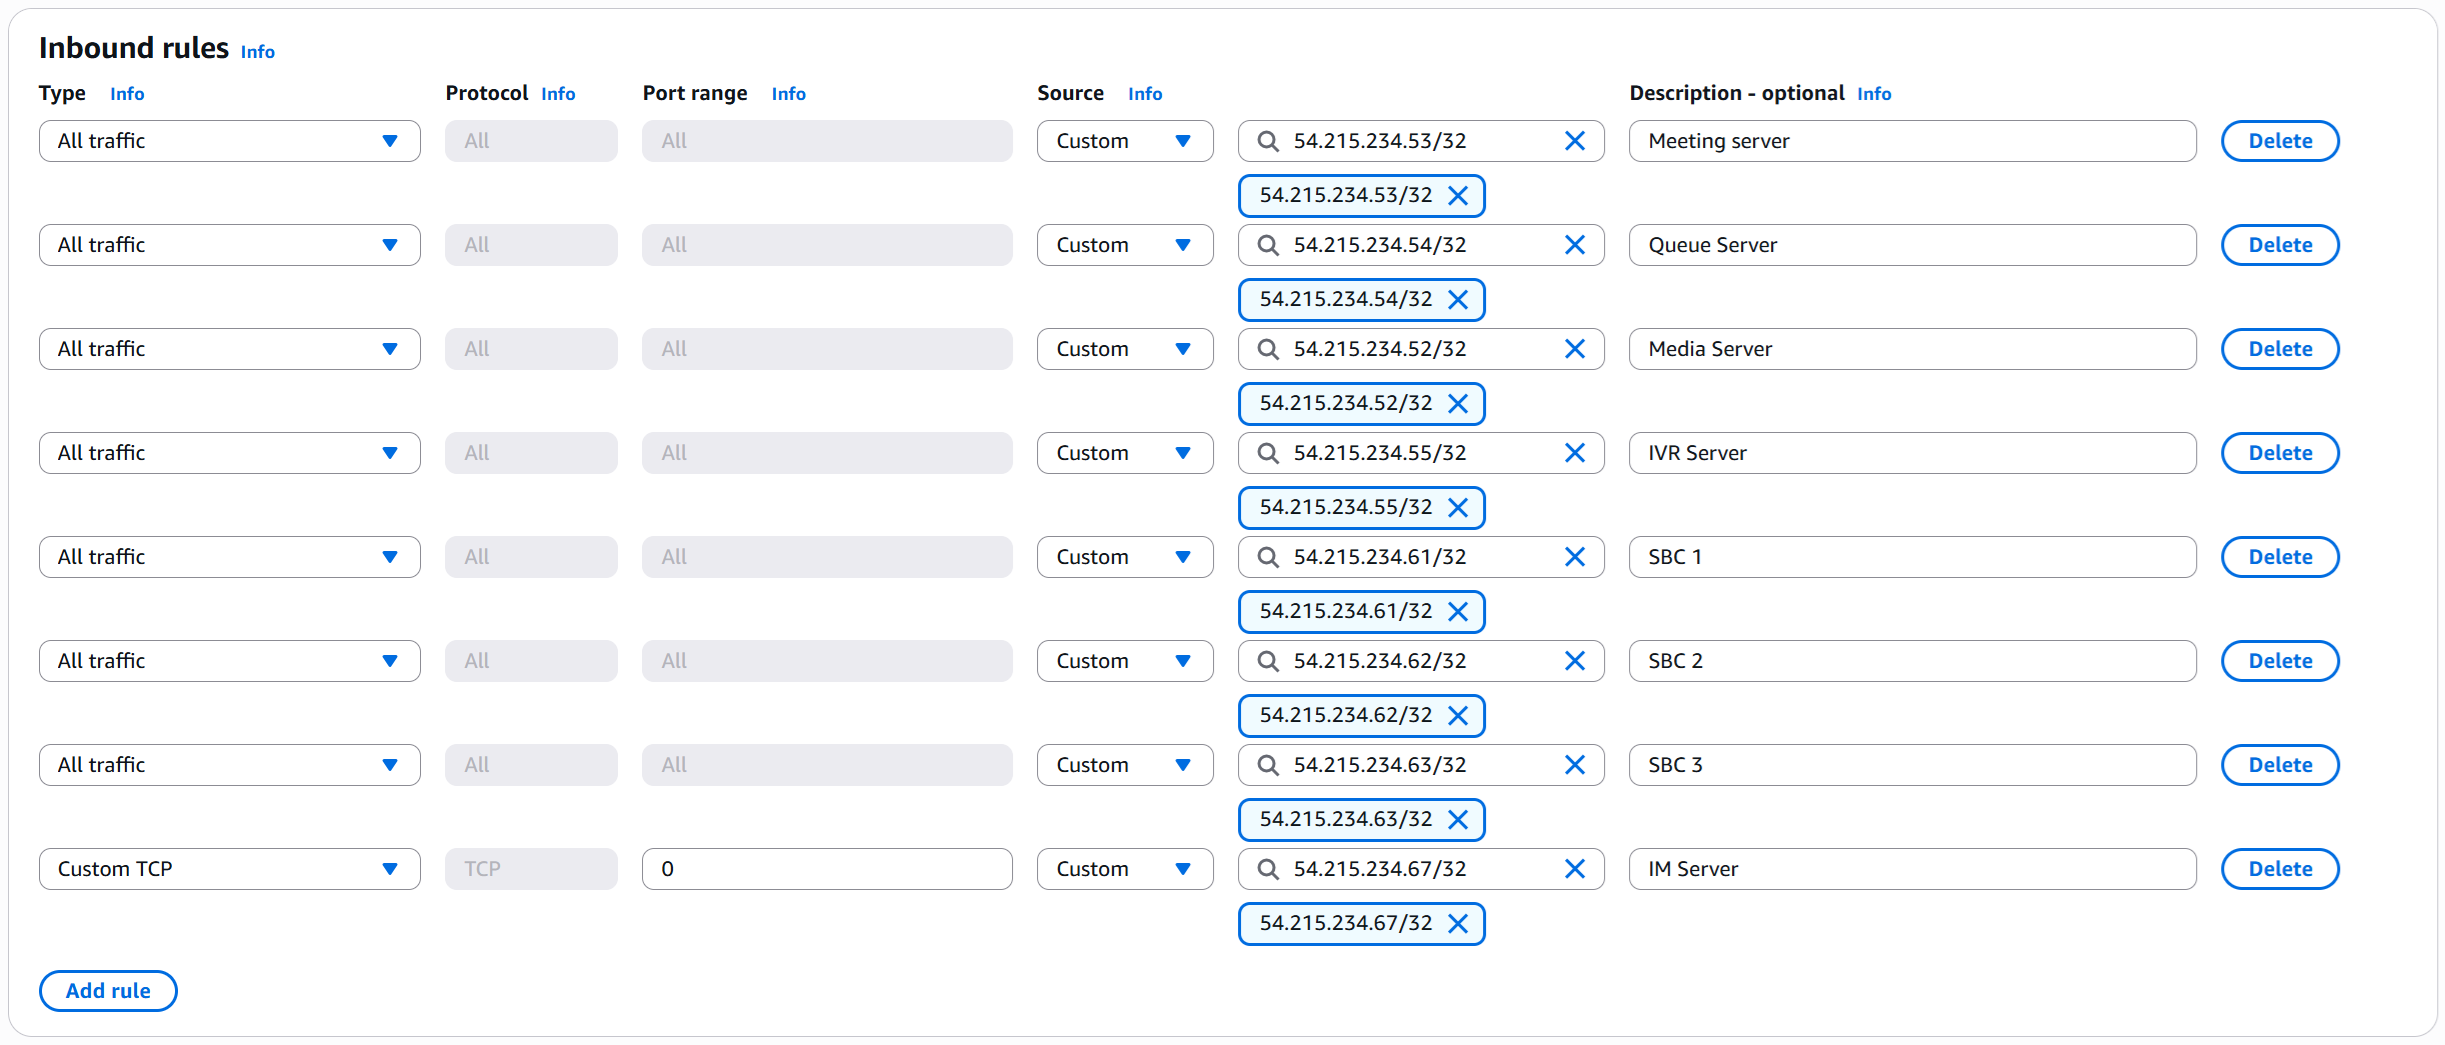
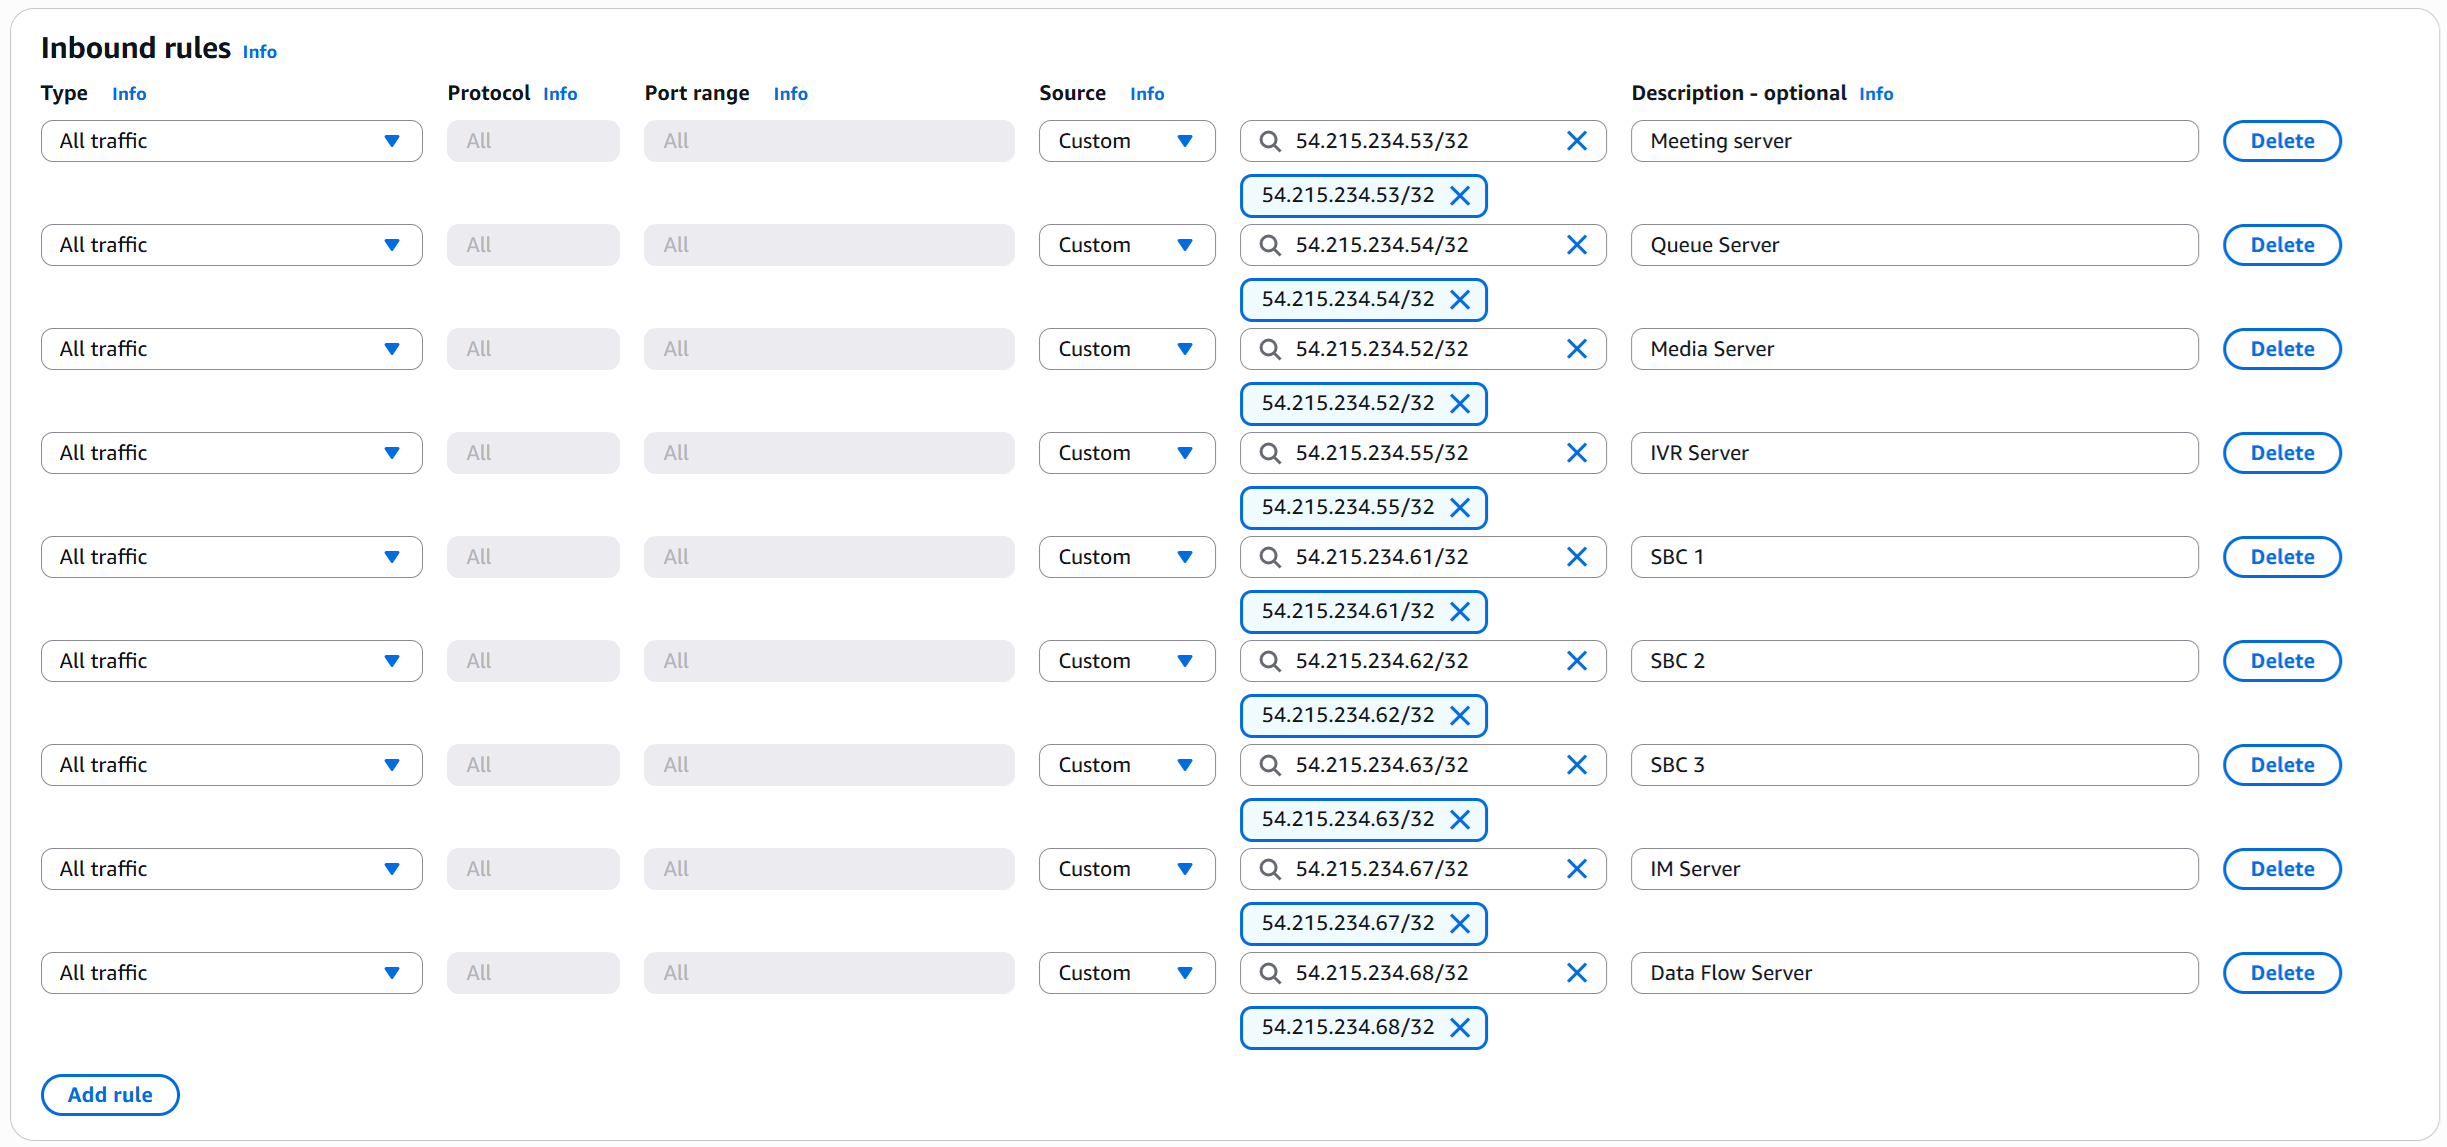
GitBook: No commit message

diff --git a/portsip-communications-solution/high-availability-v22.x/high-availability-and-scalability-on-aws/scaling-data-flow-server-on-aws-for-high-availability.md b/portsip-communications-solution/high-availability-v22.x/high-availability-and-scalability-on-aws/scaling-data-flow-server-on-aws-for-high-availability.md
@@ -2,7 +2,7 @@
 
 With a PortSIP PBX High Availability (HA) deployment, the Data Flow Service must be installed on a separate server.
 
-Before proceeding with this guide, ensure that you have successfully completed the PortSIP PBX [High Availability installation on AWS](../../../v16.x-legacy/high-availability-v16.x/high-availability-and-scalability-on-aws/high-availability-installations-on-aws.md).
+Before proceeding with this guide, ensure that you have successfully completed the PortSIP PBX [High Availability installation on AWS.](https://support.portsip.com/portsip-communications-solution/high-availability-v22.x/high-availability-and-scalability-on-aws/high-availability-installations-on-aws)
 
 ***
 
@@ -49,15 +49,6 @@ For large or high-volume environments, use the following guideline:
 
 ***
 
-#### Supported Linux Operating System
-
-To ensure compatibility and stability, all servers in the HA environment must use a consistent Linux OS.
-
-* **Supported OS:** Ubuntu 24.04 (64-bit)
-* The Data Flow server **must run the same OS version** as the PBX HA nodes.
-
-***
-
 #### User Account Requirements
 
 For seamless integration with the HA environment, the Data Flow server must meet the following user account requirements:
@@ -79,15 +70,22 @@ If your deployment handles **very large call volumes**, increase the data volume
 
 ***
 
-#### Network Requirements <a href="#network-requirements" id="network-requirements"></a>
+### Deployment Requirements
 
-**Static IP Address**
+* Each application server must be deployed on a dedicated EC2 instance. Do not install multiple application server roles on a single EC2 instance.
+* Each EC2 instance must use a **static private IP address** and an **elastic IP address**. DHCP-assigned IP addresses are not supported.
 
-You must configure a **static private IP address** for the Data Flow server.
+***
 
-* Example private IP: `192.168.1.26`
+#### Preparing Linux Servers (EC2 Instances)
 
-If a static private IP is not available, the server must have a **static public IP address** and be able to communicate reliably with the PBX server.
+Prepare the EC2 instance that will host the Data Flow server. In this example, the following Data Flow server is deployed:
+
+* Private IP: `172.31.16.158`
+* Hostname: `ip-172-31-16-158`
+* Elastic IP: `54.215.234.68`
+
+Ensure all IP addresses are reserved and consistently assigned to their respective EC2 instances.
 
 ***
 
@@ -96,7 +94,7 @@ If a static private IP is not available, the server must have a **static public 
 The following tasks **must be completed before installing the Data Flow service**:
 
 * Ensure the system date and time are correctly synchronized
-* Assign a static private IP address: Example: `192.168.1.26`
+* Assign a static private IP address: Example: `172.31.16.158`
 * Install all available system updates and service packs
 * Do not install PostgreSQL on the **Data Flow** server
 * Disable all power-saving features: Set the system to High Performance mode
@@ -112,6 +110,56 @@ These requirements ensure optimal performance and avoid conflicts with the Data 
 
 ***
 
+### Creating EC2 Instances
+
+Follow the steps below to create the EC2 instances for the Data Flow server.
+
+\
+The process is largely the same as the [PortSIP PBX High Availability (HA) deployment on AWS](high-availability-installations-on-aws.md), but please pay close attention to the specific configuration details outlined below.
+
+***
+
+#### Supported Linux Operating System
+
+PortSIP PBX High Availability (HA) and all associated servers require a consistent and compatible Linux environment.
+
+* **Supported OS**: Ubuntu 24.04 (64-bit)
+* The IM server **must run the exact same OS version** as the PBX server.
+
+#### Network Settings
+
+* Select the **same VPC and Subnet** used by the PBX HA nodes.
+* Select the **same Security Group** used by the PBX HA nodes.
+* Set **Auto-assign public IP** to **Disable**.
+* Under **Advanced network configuration → Network interface 1**:
+  * Set **Primary IP** to `172.31.16.158` for this EC2 server.
+* Associate the Elastic IP with this EC2 server. For the Elastic IP address example `54.215.234.68`
+
+#### Disk Space Recommendations
+
+* **Minimum required disk space**: 128 GB
+* No separate data partition is required for the Data Flow Server
+
+***
+
+### Configure Security Group Inbound Rules
+
+Modify the **Security Group that is attached to all three PBX HA EC2 instances** and add an Inbound Rule that allows traffic from the **Data Flow servers’ Elastic IP** 54.215.234.68 addresses.
+
+Please follow the screenshot below to add the inbound rule to the Security Group used by the PBX HA servers.
+
+<figure><img src="../../../.gitbook/assets/aws_ha_cluster_server_rules-3.png" alt=""><figcaption></figcaption></figure>
+
+***
+
+### Prerequisites
+
+Before configuring the Data Flow Server, ensure that the following prerequisites are met.
+
+The PortSIP PBX High Availability (HA) installation and configuration must be completed on the Main Server first by following the guide:  [High Availability Installations on AWS](high-availability-installations-on-aws.md).
+
+***
+
 #### Step 2: Configure the IP Address Whitelist
 
 > ⚠ **IMPORTANT**\
@@ -122,7 +170,7 @@ To prevent the PBX from applying request-rate limits to the  Data Flow service, 
 
 #### Whitelist Configuration Steps
 
-1. Sign in to the **PBX Web Portal** as a **System Administrator**
+1. Sign in to the PBX Web Portal as a System Administrator
 2. Navigate to **IP Blacklist**
 3. Click **Add**
 4. Enter the Data Flow **server IP address**
@@ -139,7 +187,7 @@ This ensures uninterrupted communication between the PBX and the data flow servi
 
 To allow the Data Flow server to securely authenticate with the PortSIP PBX HA cluster, you must generate a Data Flow server token from the PBX Web Portal.
 
-1. Sign in to the **PortSIP PBX Web Portal** as a **System Administrator**.
+1. Sign in to the PortSIP PBX Web Portal as a System Administrator.
 2. Navigate to **Servers > Data Flow**.
 3. Select the **default Data Flow** **server**.
 4. Click **Generate Token**.
@@ -151,25 +199,11 @@ The generated token will be used during the Data Flow service installation to es
 > ⚠ **IMPORTANT**\
 > All commands below for extended servers **must be executed on the `pbx01` node**, regardless of whether it is currently the active node.
 
-#### Step 4: Set Up Password-Free SSH Login
-
-To allow the PBX HA cluster to deploy and manage the Data Flow service, configure password-free SSH access to the Data Flow server.
-
-If prompted to confirm the host authenticity (**yes/no**), type **`yes`** and press **Enter**.
-
-Run the following command **from `pbx01`**:
-
-```bash
-ssh-copy-id -i ~/.ssh/id_rsa.pub pbx@192.168.1.26
-```
-
-After this step, `pbx01` will be able to access the Data Flow server without requiring a password.
-
 ***
 
 #### Step 5: Deploy the Data Flow Service
 
-The data flow service deployment **must be initiated from the `pbx01` node** of the PBX HA cluster.
+The data flow service deployment **must be initiated from the `ip-172-31-16-133` node** of the PBX HA cluster.
 
 > ⚠ **IMPORTANT**\
 > The deployment process may take several minutes.\
@@ -180,7 +214,7 @@ The data flow service deployment **must be initiated from the `pbx01` node** of 
 * `-p` : Path for storing Data Flow and ClickHouse data (required)
 * `-d` : ClickHouse Docker image (`portsip/clickhouse:25.8`)
 * `-a` : Private IP address of the Data Flow server
-* `-A` : Public IP address (used if private IP is not available)
+* `-A` : Elastic IP address
 * `-i` : PortSIP PBX Docker image version (required)
 
 Example:
@@ -189,7 +223,8 @@ Example:
 cd /opt/portsip-pbx-ha-guide/ && \
 /bin/bash dataflow.sh run \
 -p /var/lib/portsip \
--a 192.168.1.26 
+-a 172.31.16.158 \
+-A 54.215.234.68
 ```
 
 #### Operational Notes (Data Flow)
@@ -225,7 +260,7 @@ The following operations are supported for managing the data flow server:
 
 #### Data Flow Server Management Commands
 
-Run the appropriate command on **`pbx01`** based on the required operation.
+Run the appropriate command on **`ip-172-31-16-133`** node based on the required operation.
 
 **Start the Data Flow Server**
 
@@ -262,13 +297,13 @@ cd /opt/portsip-pbx-ha-guide/ && /bin/bash dataflow.sh rm
 Follow the steps below to upgrade the Data Flow server in a PortSIP PBX HA environment.
 
 > ⚠ **IMPORTANT**\
-> All upgrade steps **must be performed on the `pbx01` node**, even if `pbx01` is not the current active PBX node.
+> All upgrade steps **must be performed on the `ip-172-31-16-133` node**, even if `pbx01` is not the current active PBX node.
 
 #### Prerequisites
 
 Before upgrading the Data Flow server:
 
-* Ensure that the PBX HA cluster has already been upgraded by following the guide: [Upgrading High Availability Installation](../high-availability-and-sclability-on-premise/upgrading-high-availability-installation.md)&#x20;
+* Ensure that the PBX HA cluster has already been upgraded by following the guide: [Upgrading High Availability Installation ](upgrading-high-availability-installation.md)
 * Ensure the PBX HA cluster is operating normally
 
 ***

diff --git a/portsip-communications-solution/high-availability-v22.x/high-availability-and-scalability-on-aws/scaling-im-server-on-aws-for-high-availability.md b/portsip-communications-solution/high-availability-v22.x/high-availability-and-scalability-on-aws/scaling-im-server-on-aws-for-high-availability.md
@@ -76,7 +76,9 @@ The following tasks **must be completed before installing any PortSIP PBX cluste
 
 ### Creating EC2 Instances
 
-Follow the steps below to create the EC2 instances for the application servers.\
+Follow the steps below to create the EC2 instances for the IM server.
+
+\
 The process is largely the same as the [PortSIP PBX High Availability (HA) deployment on AWS](high-availability-installations-on-aws.md), but please pay close attention to the specific configuration details outlined below.
 
 ***
@@ -100,17 +102,17 @@ PortSIP PBX High Availability (HA) and all associated servers require a consiste
 #### Disk Space Recommendations
 
 * **Minimum required disk space**: 128 GB
-* No separate data partition is required fo IM server
+* No separate data partition is required for IM server
 
 ***
 
 ### Configure Security Group Inbound Rules
 
-Modify the **Security Group that attached to all three PBX HA EC2 instances** and add an Inbound Rule that allows traffic from the **IM servers’ Elastic IP** addresses.
+Modify the **Security Group that is attached to all three PBX HA EC2 instances** and add an Inbound Rule that allows traffic from the **IM servers’ Elastic IP** addresses.
 
 Please follow the screenshot below to add the inbound rule to the Security Group used by the PBX HA servers.
 
-<figure><img src="../../../.gitbook/assets/aws_ha_cluster_server_rules-3.png" alt=""><figcaption></figcaption></figure>
+<figure><img src="../../../.gitbook/assets/aws_ha_cluster_server_rules-3 (1).png" alt=""><figcaption></figcaption></figure>
 
 ***
 
@@ -192,6 +194,9 @@ The IM service deployment **must be initiated from the `ip-172-31-16-133` node**
 #### Deploy IM Service with Default Storage Path
 
 Run the following command on the **`ip-172-31-16-133` only**, specifying both the **static private IP** and **elastic IP** of the IM server:
+
+* `-a` : Private IP address of the IM server
+* `-A` : Elastic IP address
 
 ```bash
 cd /opt/portsip-pbx-ha-guide/ && /bin/bash im.sh run \
